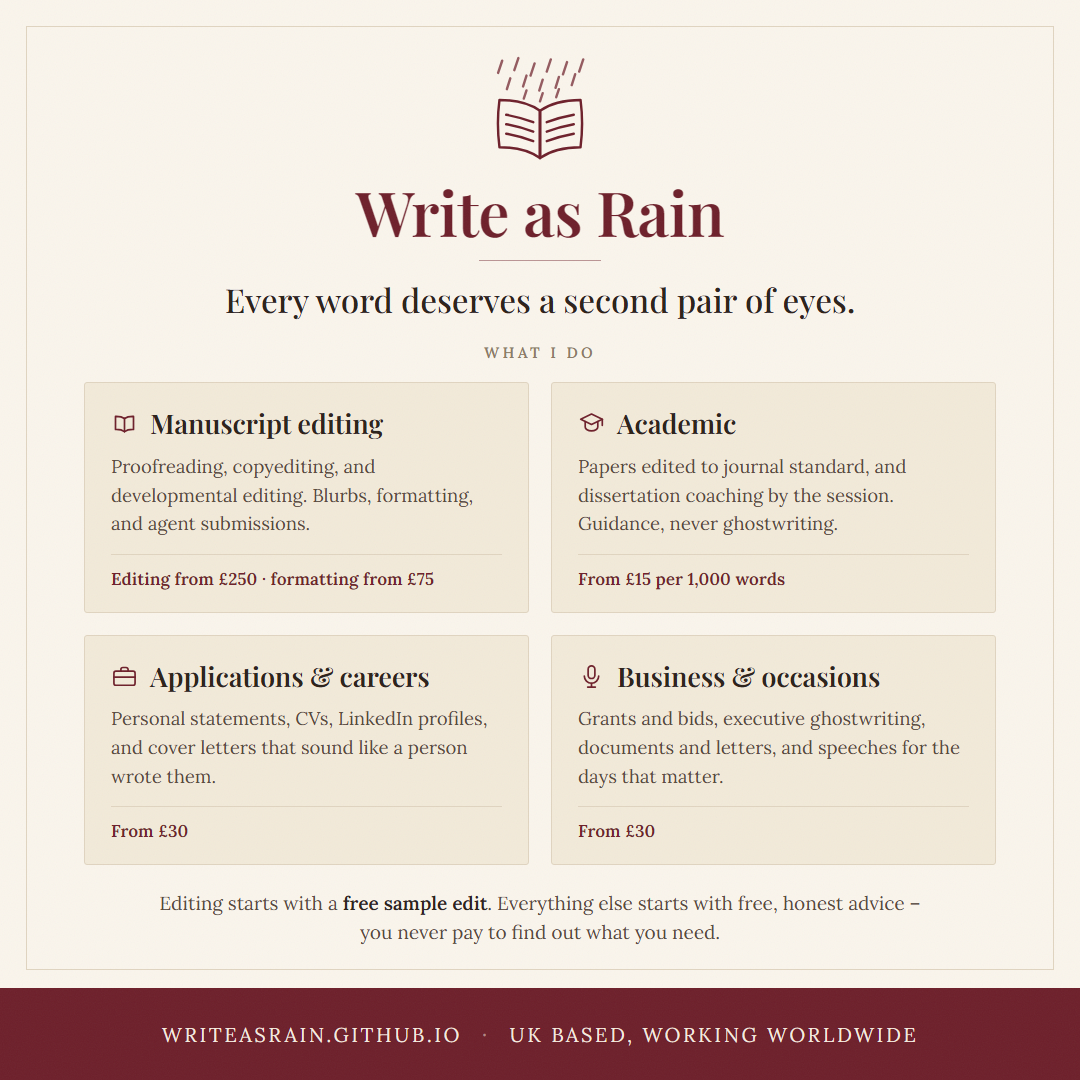
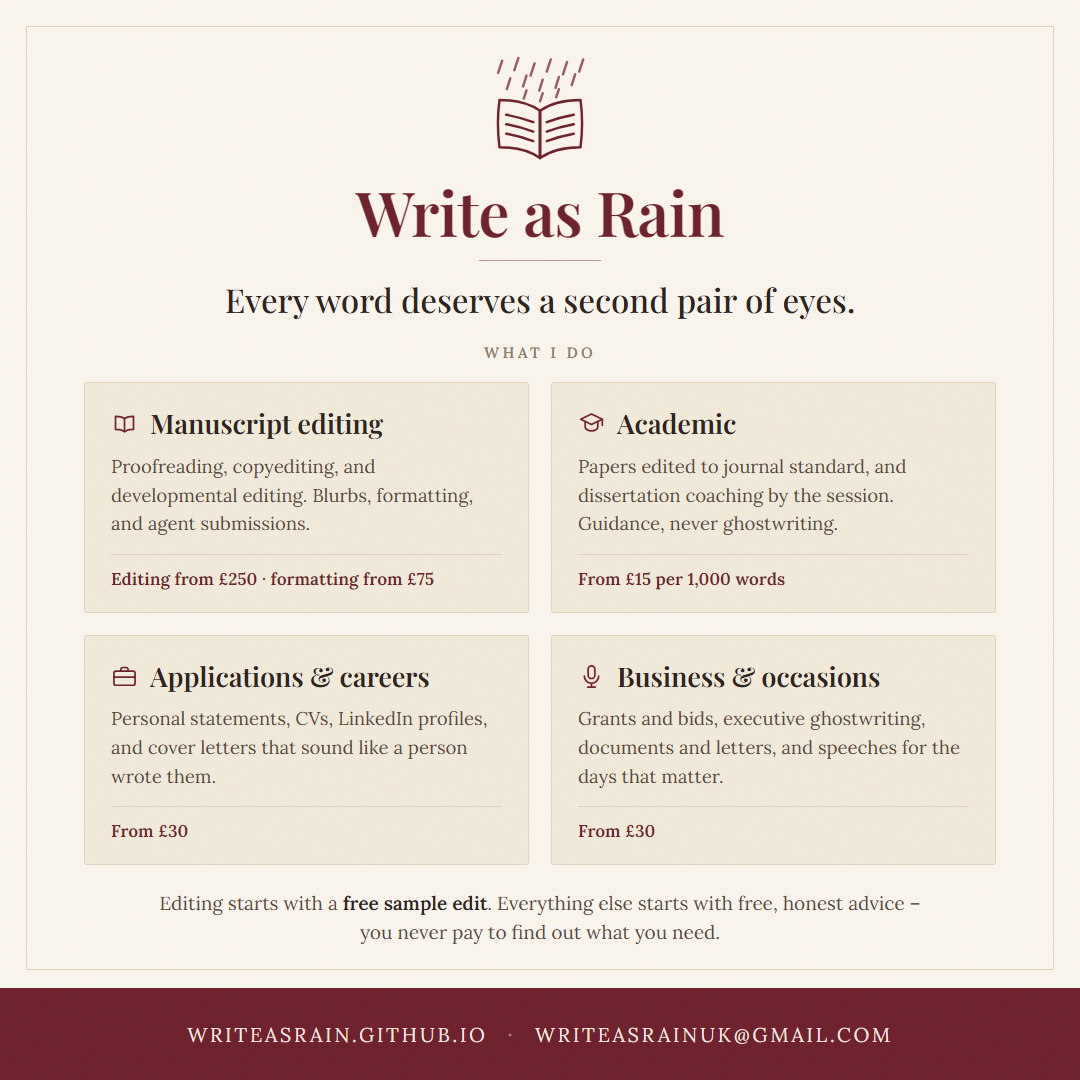
Social post update + name change

Changed region(s): [[0.4889, 0.9472, 0.8556, 0.9778], [0.1528, 0.9472, 0.4583, 0.9778]]

diff --git a/index.html b/index.html
@@ -41,7 +41,7 @@
   "description": "Proofreading, copyediting, developmental editing, and professional writing services. Based in the UK, working with authors, academics, applicants, and businesses worldwide.",
   "founder": {
     "@type": "Person",
-    "name": "Eden Robart"
+    "name": "Quinn Robart"
   },
   "email": "writeasrainuk@gmail.com",
   "telephone": "+44-7921-835288",
@@ -265,7 +265,7 @@
     <div class="section-mark reveal"><svg class="ill ill-mark" viewBox="0 0 24 24" aria-hidden="true"><use href="#wr-quill"></use></svg></div>
     <div class="section-title reveal"><h2>About your editor</h2></div>
     <div class="about-inner reveal">
-      <p>I'm Eden, and I read the way most people can't switch off: the misplaced apostrophe on the pub menu, the character whose eyes change colour in chapter nine, the sentence that would sing if two words swapped places. For years that was just a mildly annoying habit. Now it's the job.</p>
+      <p>I'm Quinn, and I read the way most people can't switch off: the misplaced apostrophe on the pub menu, the character whose eyes change colour in chapter nine, the sentence that would sing if two words swapped places. For years that was just a mildly annoying habit. Now it's the job.</p>
       <p>Before this I worked at The Oxbridge Formula, helping applicants prepare for Oxbridge entrance exams and the personal statements that go with them. That's where the academic side of this work started. It's also where I learned how fast a reader stops believing a sentence that claims something it hasn't shown.</p>
       <p>My approach is simple: <strong>your voice, made stronger.</strong> A good edit should leave a manuscript sounding more like its author, not more like its editor, so I explain every change I suggest and I never make one silently. You'll always know what I did and why.</p>
       <p>You're also dealing with me rather than an agency. The person who answers your first email is the person who does the editing, and the one who replies when you query something six weeks later. Nothing gets subcontracted, so nothing comes back in a house style that isn't yours.</p>

diff --git a/social/1-instagram-services-intro-v2.html b/social/1-instagram-services-intro-v2.html
@@ -298,7 +298,7 @@
 <div class="bar">
   <span>writeasrain.github.io</span>
   <span class="dot">&middot;</span>
-  <span>UK based, working worldwide</span>
+  <span>writeasrainuk@gmail.com</span>
 </div>
 
 <div class="grain"></div>

diff --git a/social/1-instagram-services-intro-v2.md b/social/1-instagram-services-intro-v2.md
@@ -1,0 +1,69 @@
+# Caption for 1-instagram-services-intro-v2.png
+
+Instagram shows roughly the first 125 characters before "more", so the first two
+lines have to earn the tap. Everything below is written to be pasted as one
+block.
+
+---
+
+## Caption
+
+```
+Every word deserves a second pair of eyes.
+
+I'm Quinn, and I read the way most people can't switch off: the misplaced apostrophe on the pub menu, the character whose eyes change colour in chapter nine. For years that was an annoying habit. Now it's the job.
+
+Four things I do.
+
+Manuscripts. Proofreading from £250, copyediting from £350, developmental editing from £400. Blurbs, KDP formatting, and agent submission packages as well.
+
+Academic. Papers edited to journal standard from £15 per 1,000 words, and dissertation coaching at £50 a session. Guidance, never ghostwriting – your work stays yours.
+
+Applications and careers. Personal statements, CVs, LinkedIn profiles, and cover letters, from £30.
+
+Business and occasions. Grant and bid writing, executive ghostwriting, documents, and speeches, from £30.
+
+Editing starts with a free sample edit. Send your first 1,000 words and I'll edit them properly, at no charge, before any money changes hands. Everything else starts with free advice about what you actually need, which is now and then less than you came for.
+
+You're dealing with me, not an agency. The person who answers your first email is the person doing the editing, and the one who replies when you query something six weeks later. Flat prices agreed up front. Tracked changes on everything, so you can reject every single thing I did.
+
+writeasrainuk@gmail.com
+```
+
+## Hashtags
+
+Paste these as a first comment rather than into the caption. It keeps the
+caption clean, and reach is unaffected either way.
+
+### Recommended set (14)
+
+```
+#Proofreading #Copyediting #BookEditor #ManuscriptEditing #AmEditing #WritingCommunity #IndieAuthor #SelfPublishing #Ghostwriter #DevelopmentalEditing #UKEditor #FreelanceEditor #WritersOfInstagram #FreeSampleEdit
+```
+
+### Wider pool, if you want to rotate
+
+Swapping a few between posts stops every post looking identical to the algorithm
+and to anyone who follows you.
+
+- **Editing:** #LineEditing #Proofreader #EditorsOfInstagram #ProofreadingServices #CopyEditor
+- **Authors and publishing:** #AmWriting #AuthorsOfInstagram #WritingTips #KDP #IndiePublishing #BookBlurb #QueryLetter #MemoirWriting
+- **Academic:** #AcademicWriting #PhDLife #ThesisWriting #AcademicEditing #ESLWriting
+- **Applications and business:** #PersonalStatement #CVWriting #UCAS #GrantWriting #BidWriting #LinkedInTips
+- **UK reach:** #UKWriter #UKAuthors #WritingUK
+
+## Notes
+
+- Hashtags are CamelCase on purpose. Screen readers pronounce #BookEditor as two
+  words and #bookeditor as one long noise, and it costs nothing to do it right.
+- Instagram allows 30 hashtags. Thirty is worse than fourteen: broad tags like
+  #writing put you against millions of posts you cannot compete in, and the
+  scattergun reads as spam to actual people. The set above leans on tags where a
+  small account can still surface.
+- #FreeSampleEdit has almost no volume. It's in there because it's the thing
+  worth being found for, and it costs one slot.
+- Prices are checked against index.html and pricing.html as of 3 August 2026.
+  If you change a price on the site, this caption goes stale.
+- The caption is British English throughout, uses the Oxford comma, and uses
+  spaced en dashes rather than em dashes, per the client AI guidelines.
+- No emoji, for the same reason the bio has none.

diff --git a/social/0-instagram-bio.md b/social/0-instagram-bio.md
@@ -1,0 +1,89 @@
+# Instagram bio
+
+Instagram gives you three separate fields. The limits are hard, and they count
+line breaks and spaces.
+
+| Field | Limit | Searchable? |
+|---|---|---|
+| Name | 30 characters | Yes – this is the field Instagram searches |
+| Bio | 150 characters | No |
+| Link | separate field | n/a |
+
+The Name field is the one that gets matched against searches, so it should carry
+the words someone would actually type. "Write as Rain" alone wastes it.
+
+---
+
+## Name field
+
+Pick one. Counts are exact.
+
+- `Write as Rain | Editor` (22)
+- `Write as Rain · Book Editor` (27)
+- `Quinn | Editor & Ghostwriter` (28)
+
+Recommended: **`Write as Rain · Book Editor`**. It keeps the brand first and puts
+"book editor" in the searchable field, which is what people type.
+
+---
+
+## Bio options
+
+### A – the site's own line (111 characters)
+
+```
+Every word deserves a second pair of eyes.
+Proofreading, copyediting, and ghostwriting.
+Free sample edit below.
+```
+
+The line the whole site is built on, so anyone arriving from a post or the
+website gets the same sentence twice. Safest option.
+
+### B – what you get, plainly (149 characters)
+
+```
+Manuscripts, applications, and business writing.
+One editor, not an agency. Flat prices, tracked changes.
+Free sample edit on your first 1,000 words.
+```
+
+Answers "what do I get and what does it cost me" without a single adjective.
+Sits one character under the limit, so it cannot take an edit without a cut.
+
+### C – shortest, most personal (115 characters)
+
+```
+I'm Quinn. I edit and ghostwrite, on my own, in the UK.
+Your voice, made stronger.
+Free sample edit before you pay.
+```
+
+Uses the "your voice, made stronger" line from the About section. Best if the
+account is going to sound like a person rather than a business.
+
+---
+
+Recommended: **B**, with **A** as the fallback. B is the only one that mentions
+price behaviour, and "flat prices" plus "free sample edit" is the thing that
+separates you from every editing account that leads with a stock photo of a
+laptop.
+
+## Link field
+
+`https://writeasrain.github.io`
+
+Don't spend bio characters on the URL. The link field is separate and doesn't
+count against your 150.
+
+## Notes
+
+- No emoji in any of these. The site is cream paper, burgundy ink, and Playfair
+  Display; emoji would be the only thing on the whole account that isn't.
+- All three are British English and use the Oxford comma, matching the site.
+- Line breaks work in Instagram bios but are stripped if you paste into the
+  mobile app's edit field from some keyboards. Paste on desktop, or type the
+  breaks in manually.
+- Whichever you choose, keep "free sample edit" in it. It's the strongest thing
+  you offer and it's the only claim on the site that costs a reader nothing to
+  test.
